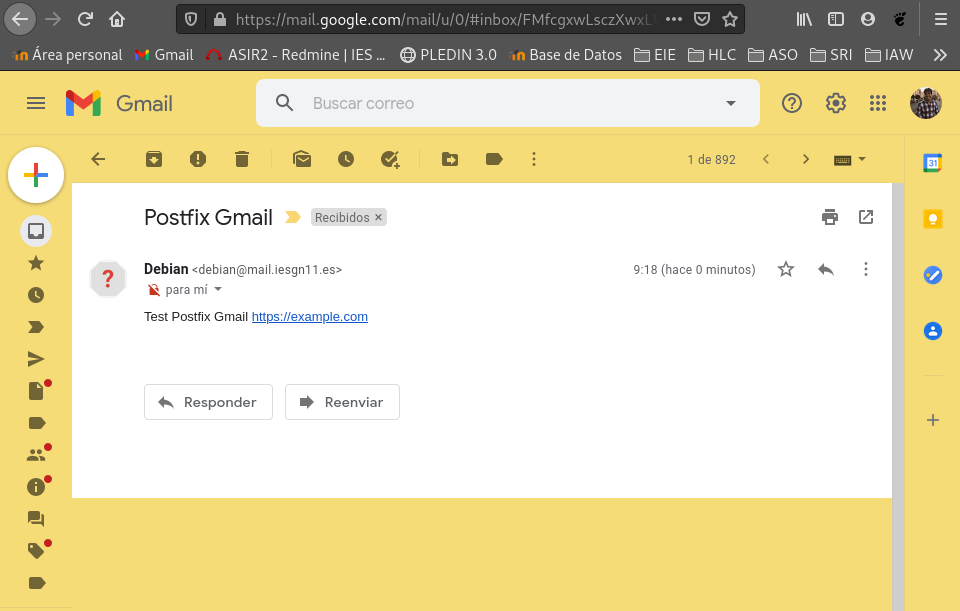
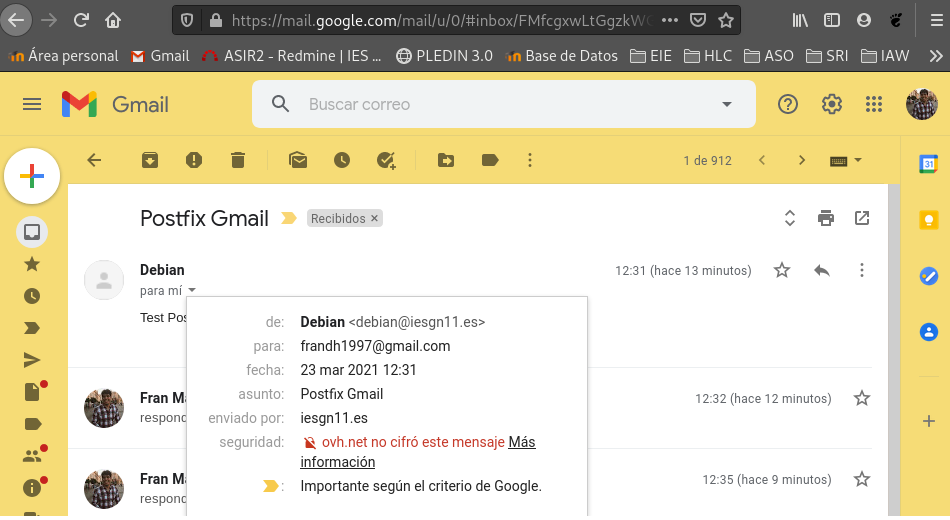
Publicación añadida por el Script de Producción

diff --git a/content/2021-1-22-sri-ovh-correo.md b/content/2021-1-22-sri-ovh-correo.md
@@ -79,6 +79,27 @@ debian@valhalla:/etc/postfix$ echo "Test Postfix Gmail https://example.com" | ma
 ```
 ![PracticaImg](images/servicios/postfix1.png "Imagen de la practica")
 
+**<div style="background-color:#34c146; border-radius:0.5em; border-color: black;">CORRECIÓN DE ERRORES:</div>** 
+Falto descomentar 
+```shell
+myorigin = /etc/mailname
+```
+En /etc/postfix/main.cf por lo tanto el correo de llegada no hacía uso del registro MX, una vez solucionado, el resultado se muestra en la imagen anterior y el registro del reenvio desde el cliente gmail es el siguiente:
+```shell
+From: =?UTF-8?Q?Fran_Madue=C3=B1o?= <frandh1997@gmail.com>
+Date: Tue, 23 Mar 2021 12:32:28 +0100
+Message-ID: <CABQY=Qhwd7yymmtRK4JTiYnHDObpoc_hq5W96zbujQSGauhwAQ@mail.gmail.com>
+Subject: Re: Postfix Gmail
+To: Debian <debian@iesgn11.es>
+Content-Type: multipart/alternative; boundary="00000000000031c6e505be328ab6"
+
+--00000000000031c6e505be328ab6
+Content-Type: text/plain; charset="UTF-8"
+Content-Transfer-Encoding: quoted-printable
+
+respondiendo al registro MX
+```
+
 * Tarea 2: Documenta una prueba de funcionamiento, donde envíes un correo desde el exterior (gmail, hotmail,…) a tu servidor local. Muestra el log donde se vea el envío. Muestra cómo has leído el correo. Muestra el registro MX de tu dominio.
 
 Enviamos un correo desde el exterior.

diff --git a/content/2021-3-17-sad-vpn.md b/content/2021-3-17-sad-vpn.md
@@ -37,7 +37,7 @@ tags:
 
 * Escenario utilizado ➜ [Vagrantfile](documents/vagrantfilevpn.txt)
 
-* Antes de comenzar deberemos tener ➜ [Autoridad Certificadora y Certificados.](content/2020-11-03-openvpn-cert.md)
+* Antes de comenzar deberemos tener ➜ [Autoridad Certificadora y Certificados.](https://franmadu6.github.io/gatsbyjs/configuracion-de-cliente-open-vpn-con-certificados-x-509)
 
 ## Cliente1
 Instalamos el paquete **OpenVPN**.
@@ -195,3 +195,12 @@ Realizaremos un ip a para comprobar que la interfaz tun ha sido generada.
 
 ```
 
+
+
+ca /etc/openvpn/keys/ca.crt #Certificado de la CA
+
+
+cert /etc/openvpn/keys/server.crt #Certificado local (servidor)
+
+
+key /etc/openvpn/keys/server.key #Clave privada local (servidor)
